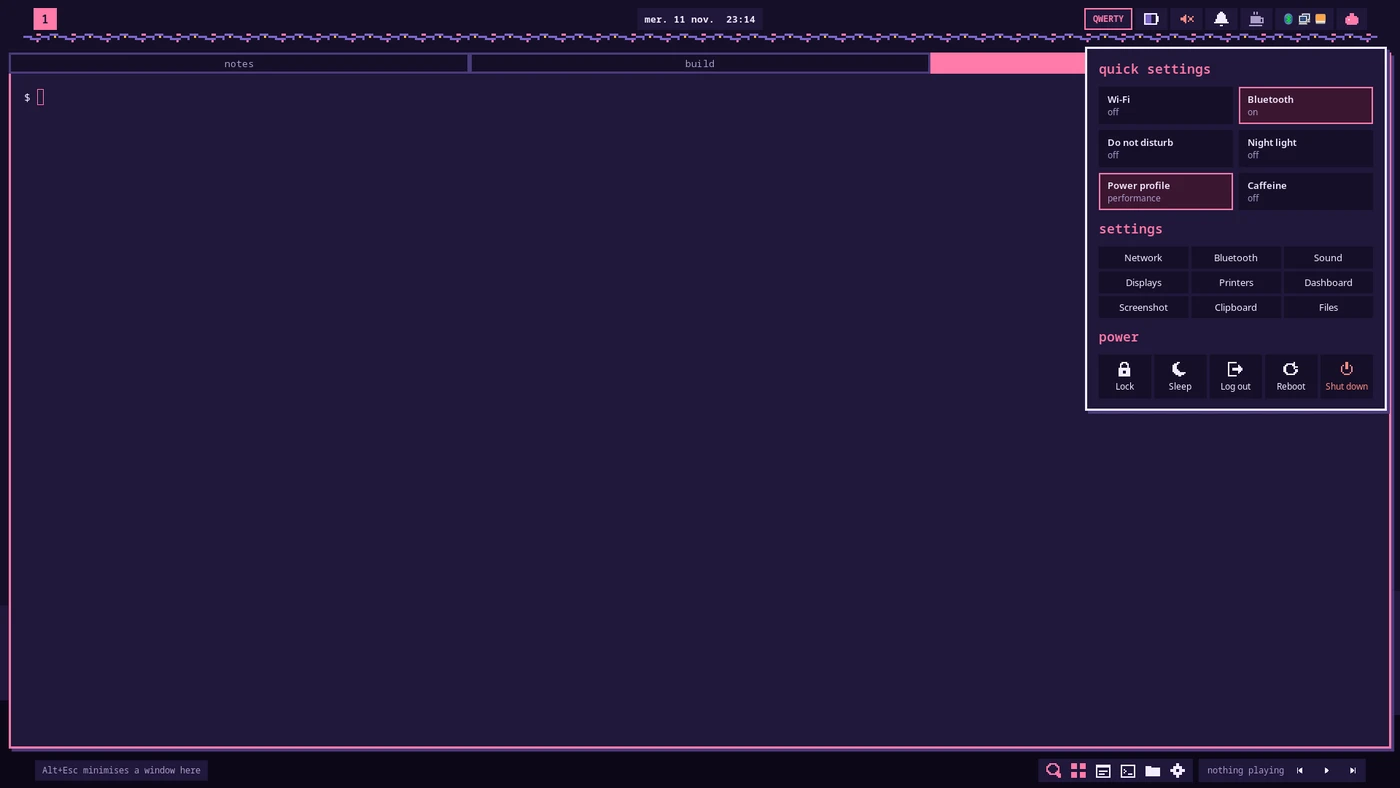
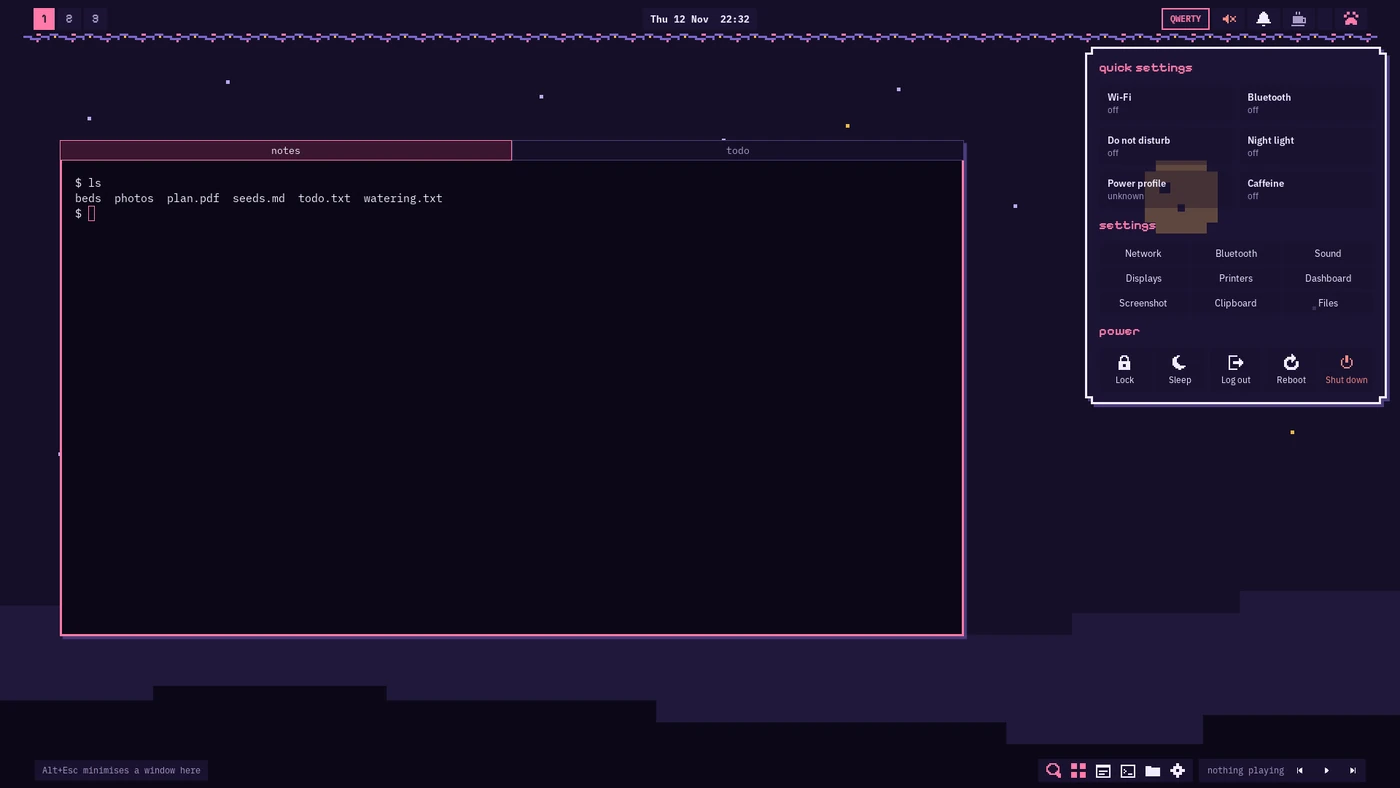
readme: refresh the screenshots (pixel register as built, translucent notched panels, English locale)
All eight pictures are retaken in a headless session of the branch with the pixel wallpaper, an English locale and made-up content (a garden notes folder, neutral notifications), at the sizes of the files they replace (1400 x 788, portrait 540 x 960). Two are added: the dashboard on a 3440 x 1440 screen (dashboard-wide-screen, 1400 x 586) and the sound panel with its mute buttons (sound, 1400 x 788).

diff --git a/README.md b/README.md
@@ -2,7 +2,7 @@
 
 A [Universal Blue](https://universal-blue.org/) image: [Bazzite](https://bazzite.gg/) (GNOME) with a second desktop, **swayfx + eww**, in a pixel-art look (dark purples and a pink accent, square corners, hard borders, pixel icons), with a pixel bramble under the bar. The Sway session is chosen from the GDM login screen; GNOME stays as a fallback.
 
-![Desktop: tabbed windows with square pink and purple frames, bar of separate chips with a pixel bramble under it, bottom strip, pixel night-sky wallpaper with a moon and stepped hills](docs/img/desktop.webp)
+![Desktop: a floating group of two tabbed terminals with a pink frame and a hard shadow, the bar of separate translucent chips with a pixel bramble under it, three notifications, the bottom strip, the pixel night-sky wallpaper with a moon and stepped hills](docs/img/desktop.webp)
 
 The screenshots below are taken from the real desktop (sway + eww in a headless session), not from a mock-up.
 
@@ -37,8 +37,10 @@ The desktop takes its look from the Inkunome design system, its **pixel register
 
 ### Dashboard and menus
 
-![Dashboard](docs/img/dashboard.webp)
-![Quick settings: Wi-Fi, Bluetooth, brightness, apps and power](docs/img/quick-settings.webp)
+![Dashboard: the clock, the date and the calendar; notifications, system meters and the media line](docs/img/dashboard.webp)
+![The dashboard on a screen 2560 px wide or more (here 3440 x 1440): three columns over 60 % of the screen](docs/img/dashboard-wide-screen.webp)
+![Quick settings: Wi-Fi, Bluetooth, power profile, caffeine, apps and power](docs/img/quick-settings.webp)
+![Sound panel: a mute button beside each slider, the microphone muted](docs/img/sound.webp)
 ![Shortcut sheet, shown when hovering the keyboard layout](docs/img/shortcuts.webp)
 
 ### Portrait screens
